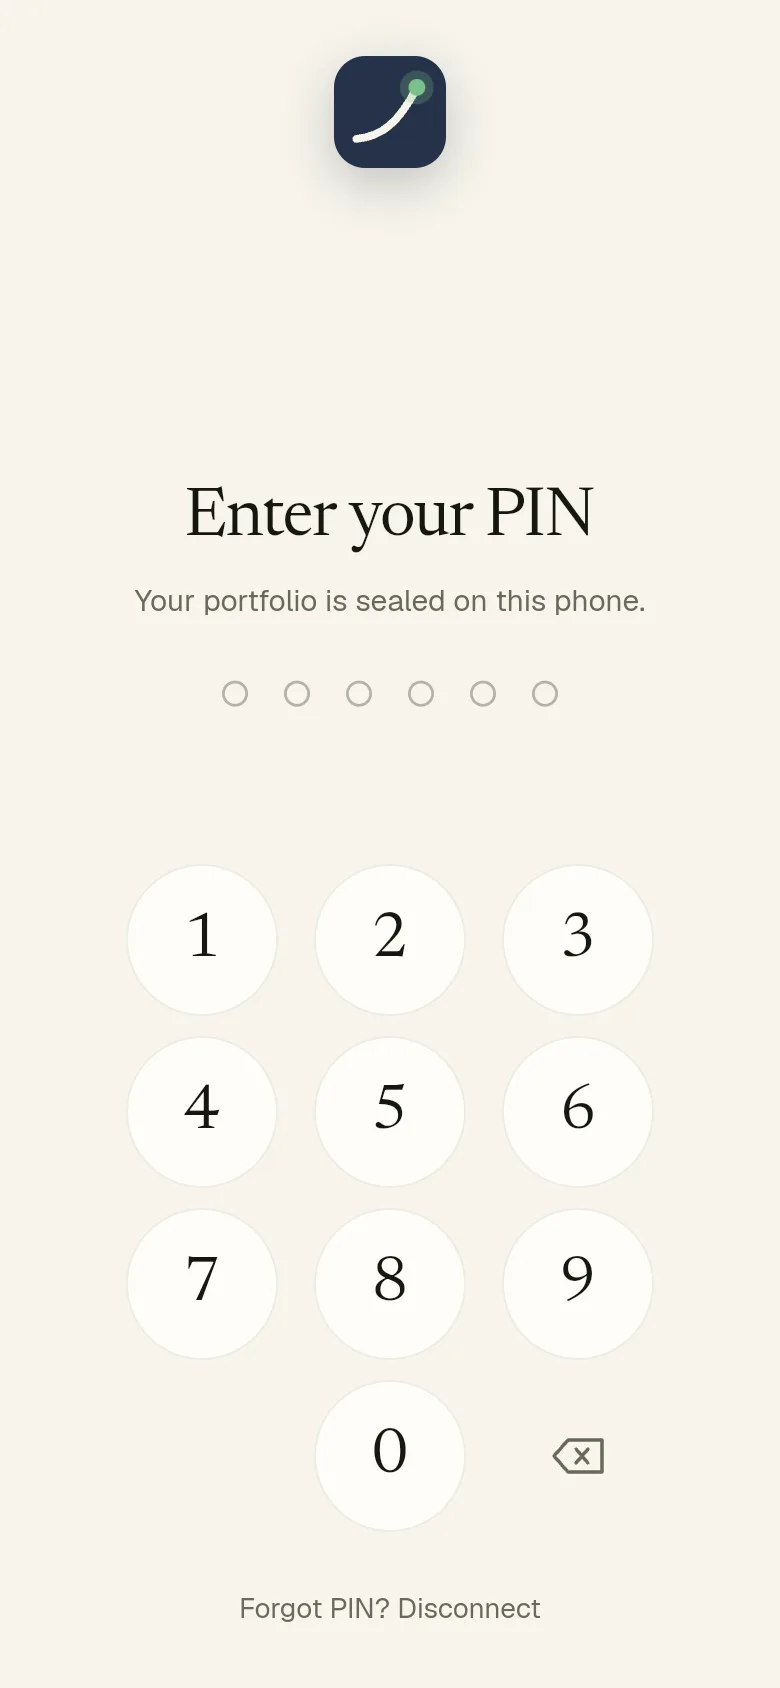
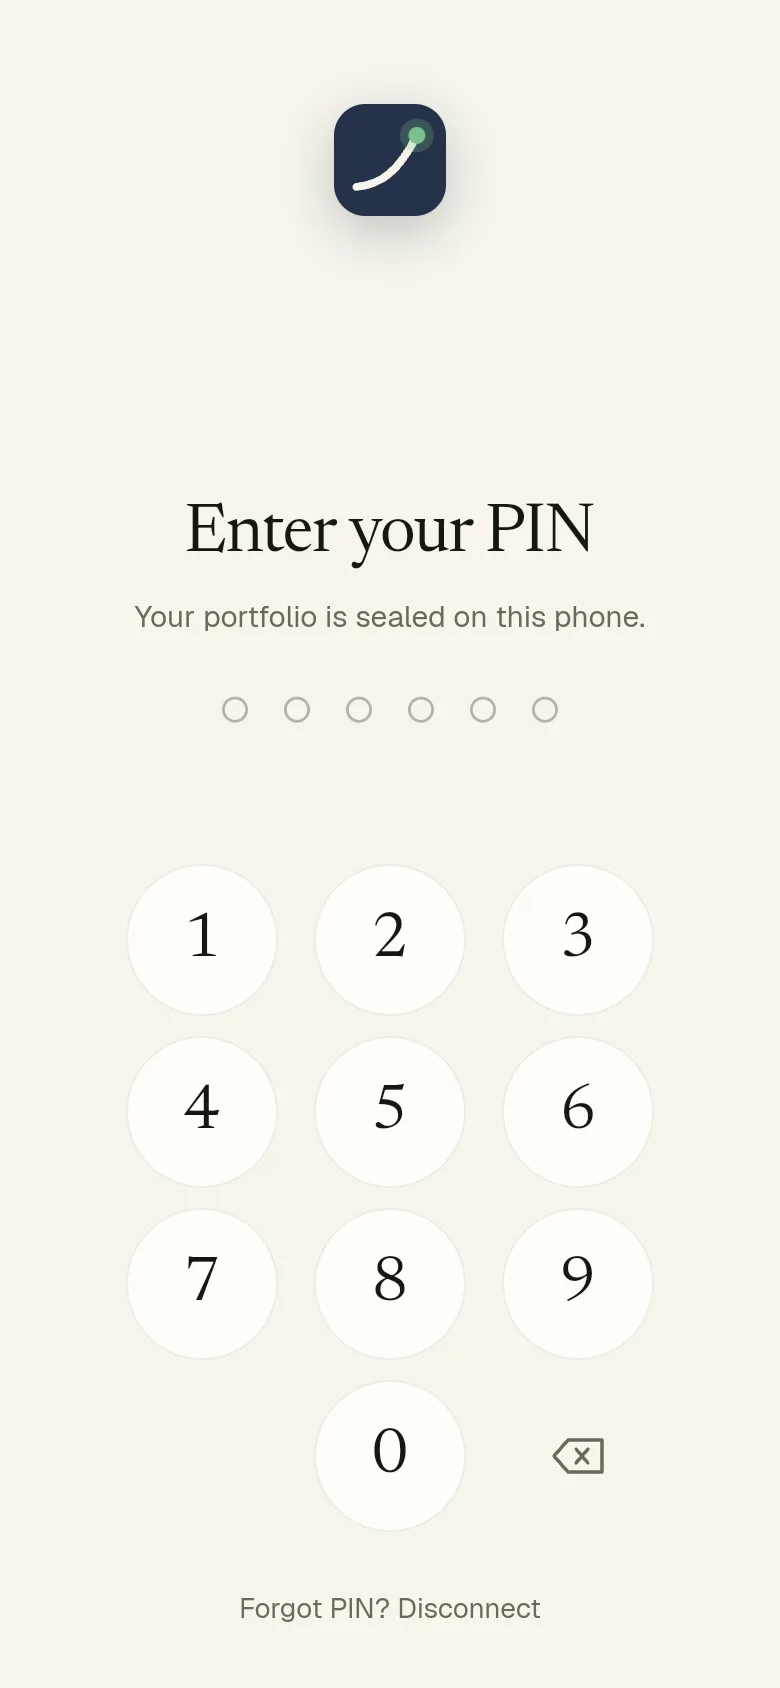
fix: give the lock screen mark room under the dynamic island and refresh the screenshots

diff --git a/landing/index.html b/landing/index.html
@@ -106,7 +106,7 @@
           <ul class="list claims">
             <li class="rise"><h3>The key can only read</h3><p>Bitpanda keys have scopes. This one has the Read scope and nothing else.</p></li>
             <li class="rise"><h3>The key never reaches your phone</h3><p>It lives in a GitHub secret. Your phone only ever receives a sealed file, locked with AES-256 and a key stretched from your passphrase 600,000 times.</p></li>
-            <li class="rise"><h3>A PIN or your face guards the app</h3><p>The passphrase is sealed on your phone under your PIN, or under a passkey that Face ID, Touch ID or your fingerprint unlocks. The app locks itself two minutes after you leave it.</p></li>
+            <li class="rise"><h3>A PIN or your face guards the app</h3><p>The passphrase is sealed on your phone under your PIN, or under a passkey that Face ID, Touch ID or your fingerprint opens. The app locks itself two minutes after you leave it.</p></li>
             <li class="rise"><h3>Open source, no tracking</h3><p>No account, no analytics, no ads. Read every line on <a href="https://github.com/Nikityyy/the-future">GitHub</a>.</p></li>
           </ul>
           <p class="note rise">The sealed file is public, as GitHub Pages is. Only your passphrase opens it, so choose four random words rather than a name or a date.</p>

diff --git a/lib/screens/lock.dart b/lib/screens/lock.dart
@@ -224,7 +224,7 @@ class _LockScreenState extends State<LockScreen> {
       color: C.ground,
       child: Column(
         children: [
-          SizedBox(height: 28 + browserSafeArea().top),
+          SizedBox(height: 52 + browserSafeArea().top),
           const AppMark(size: 56),
           Expanded(
             child: PinPad(
